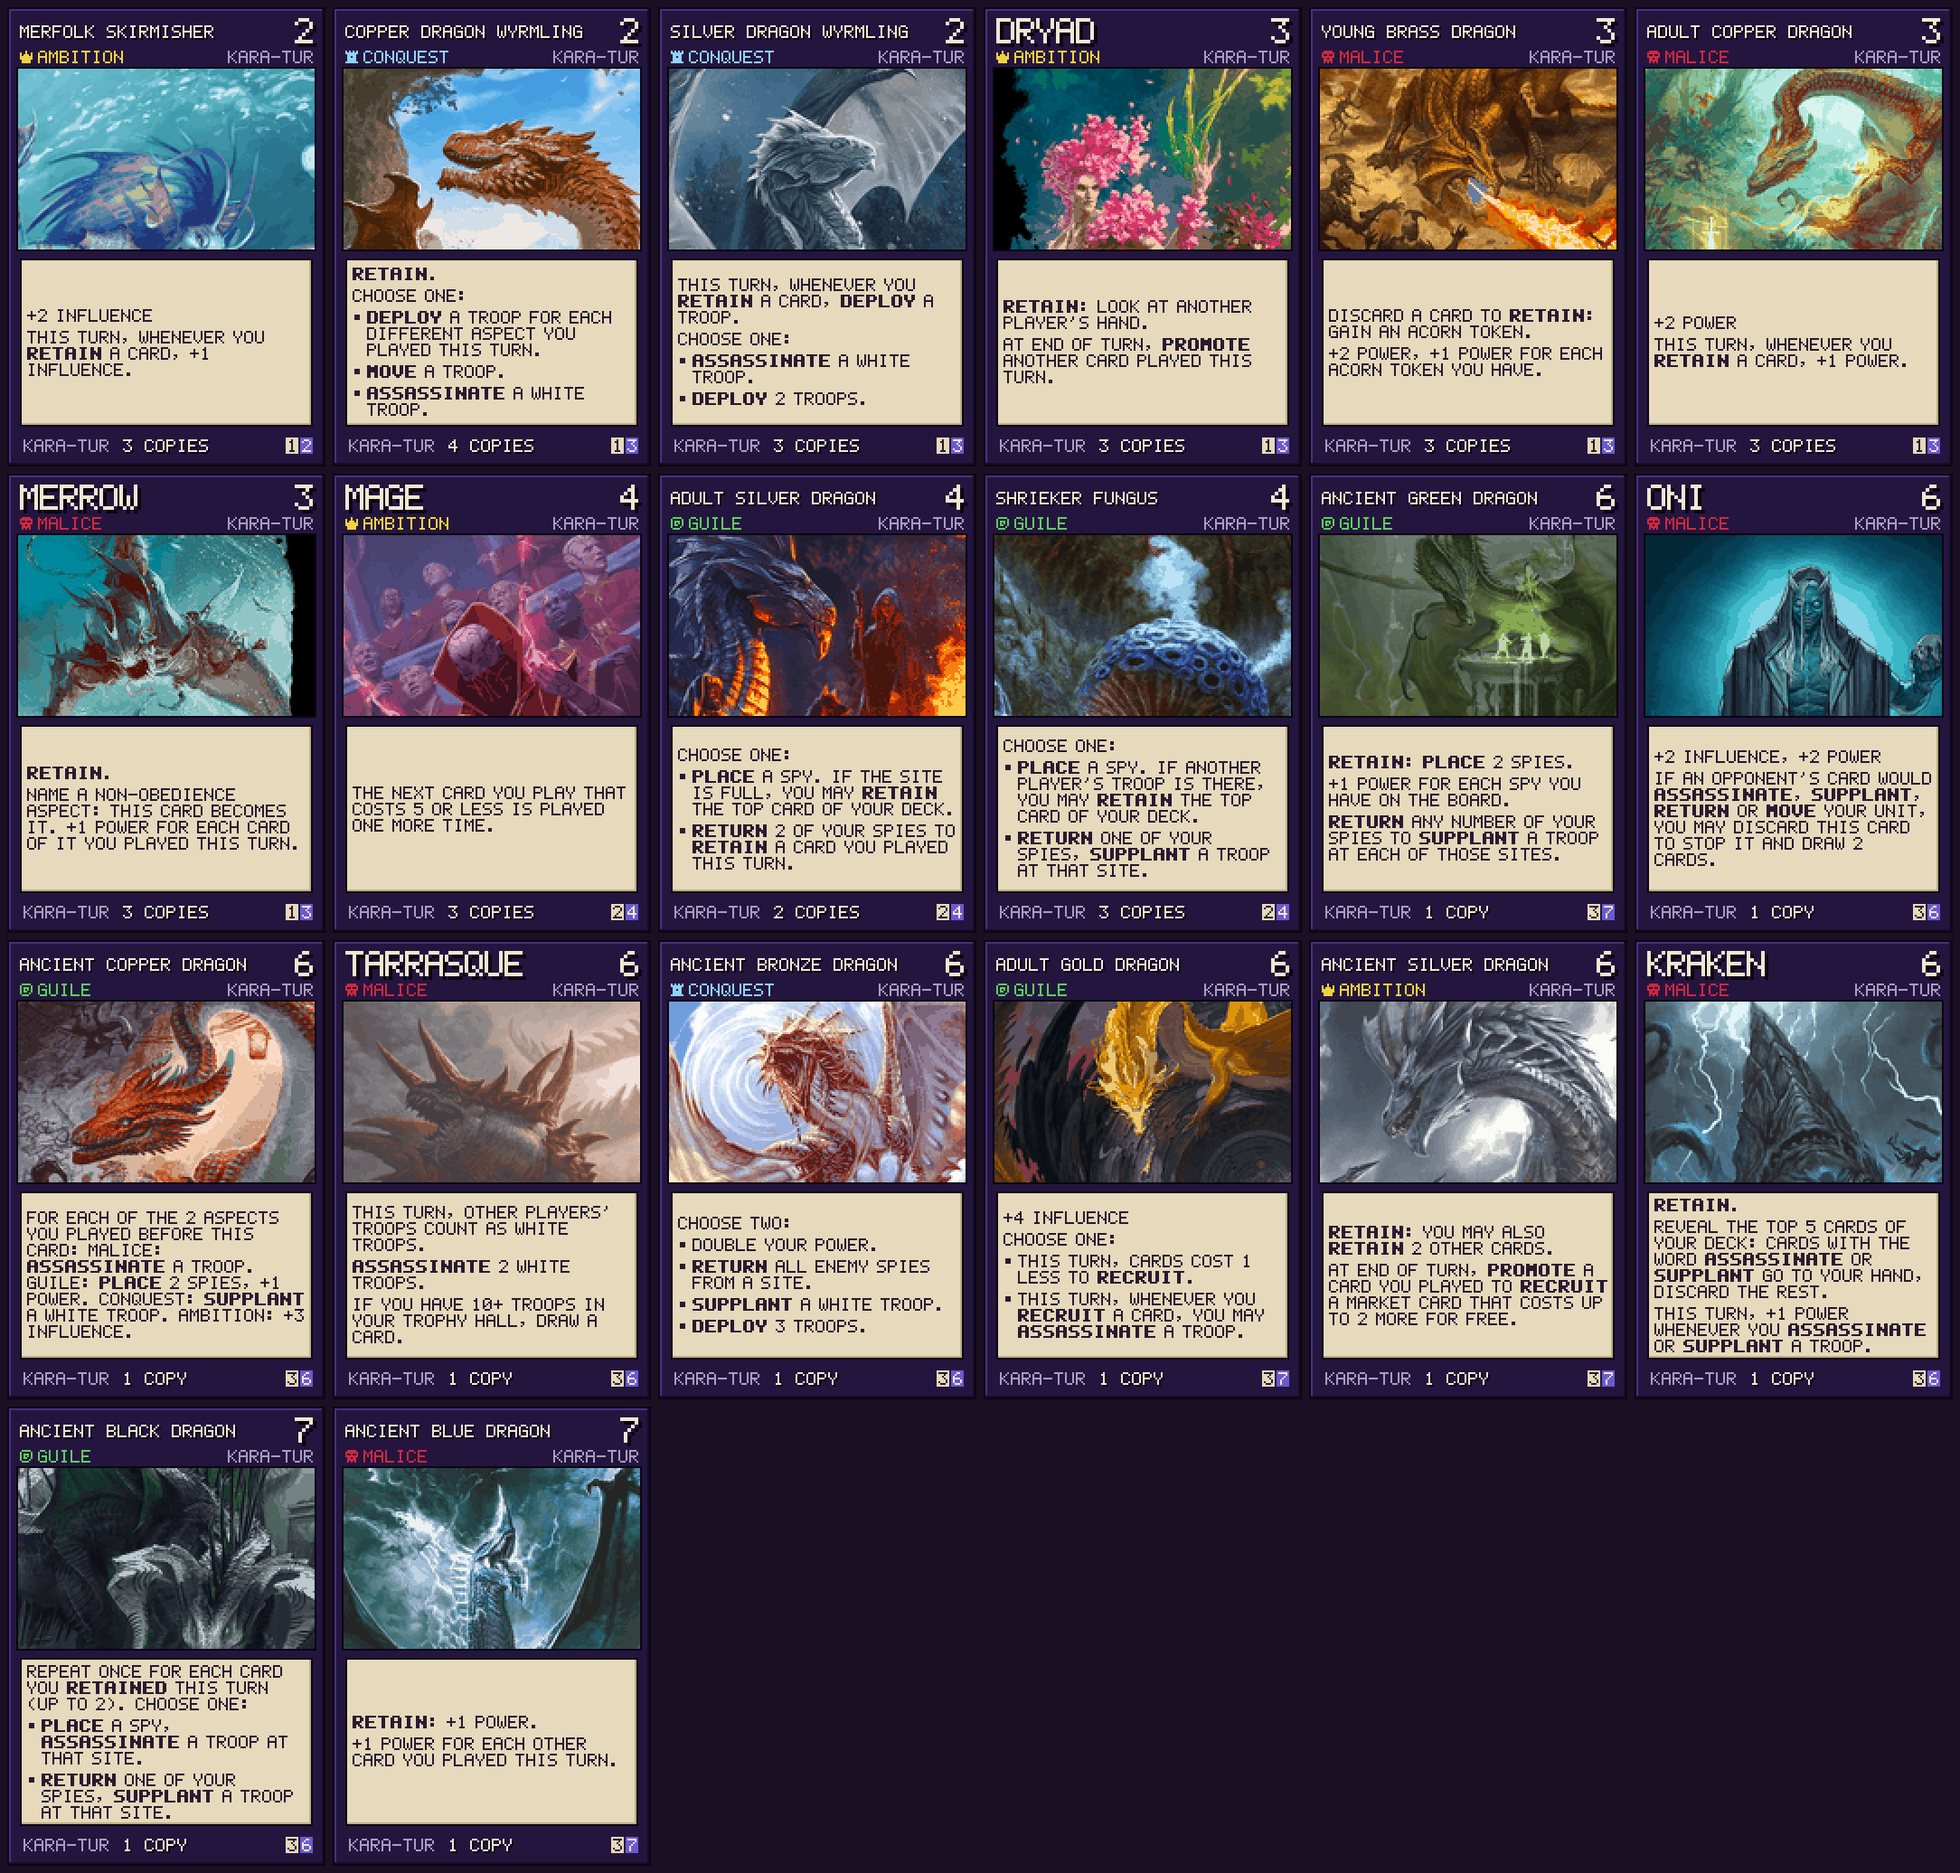
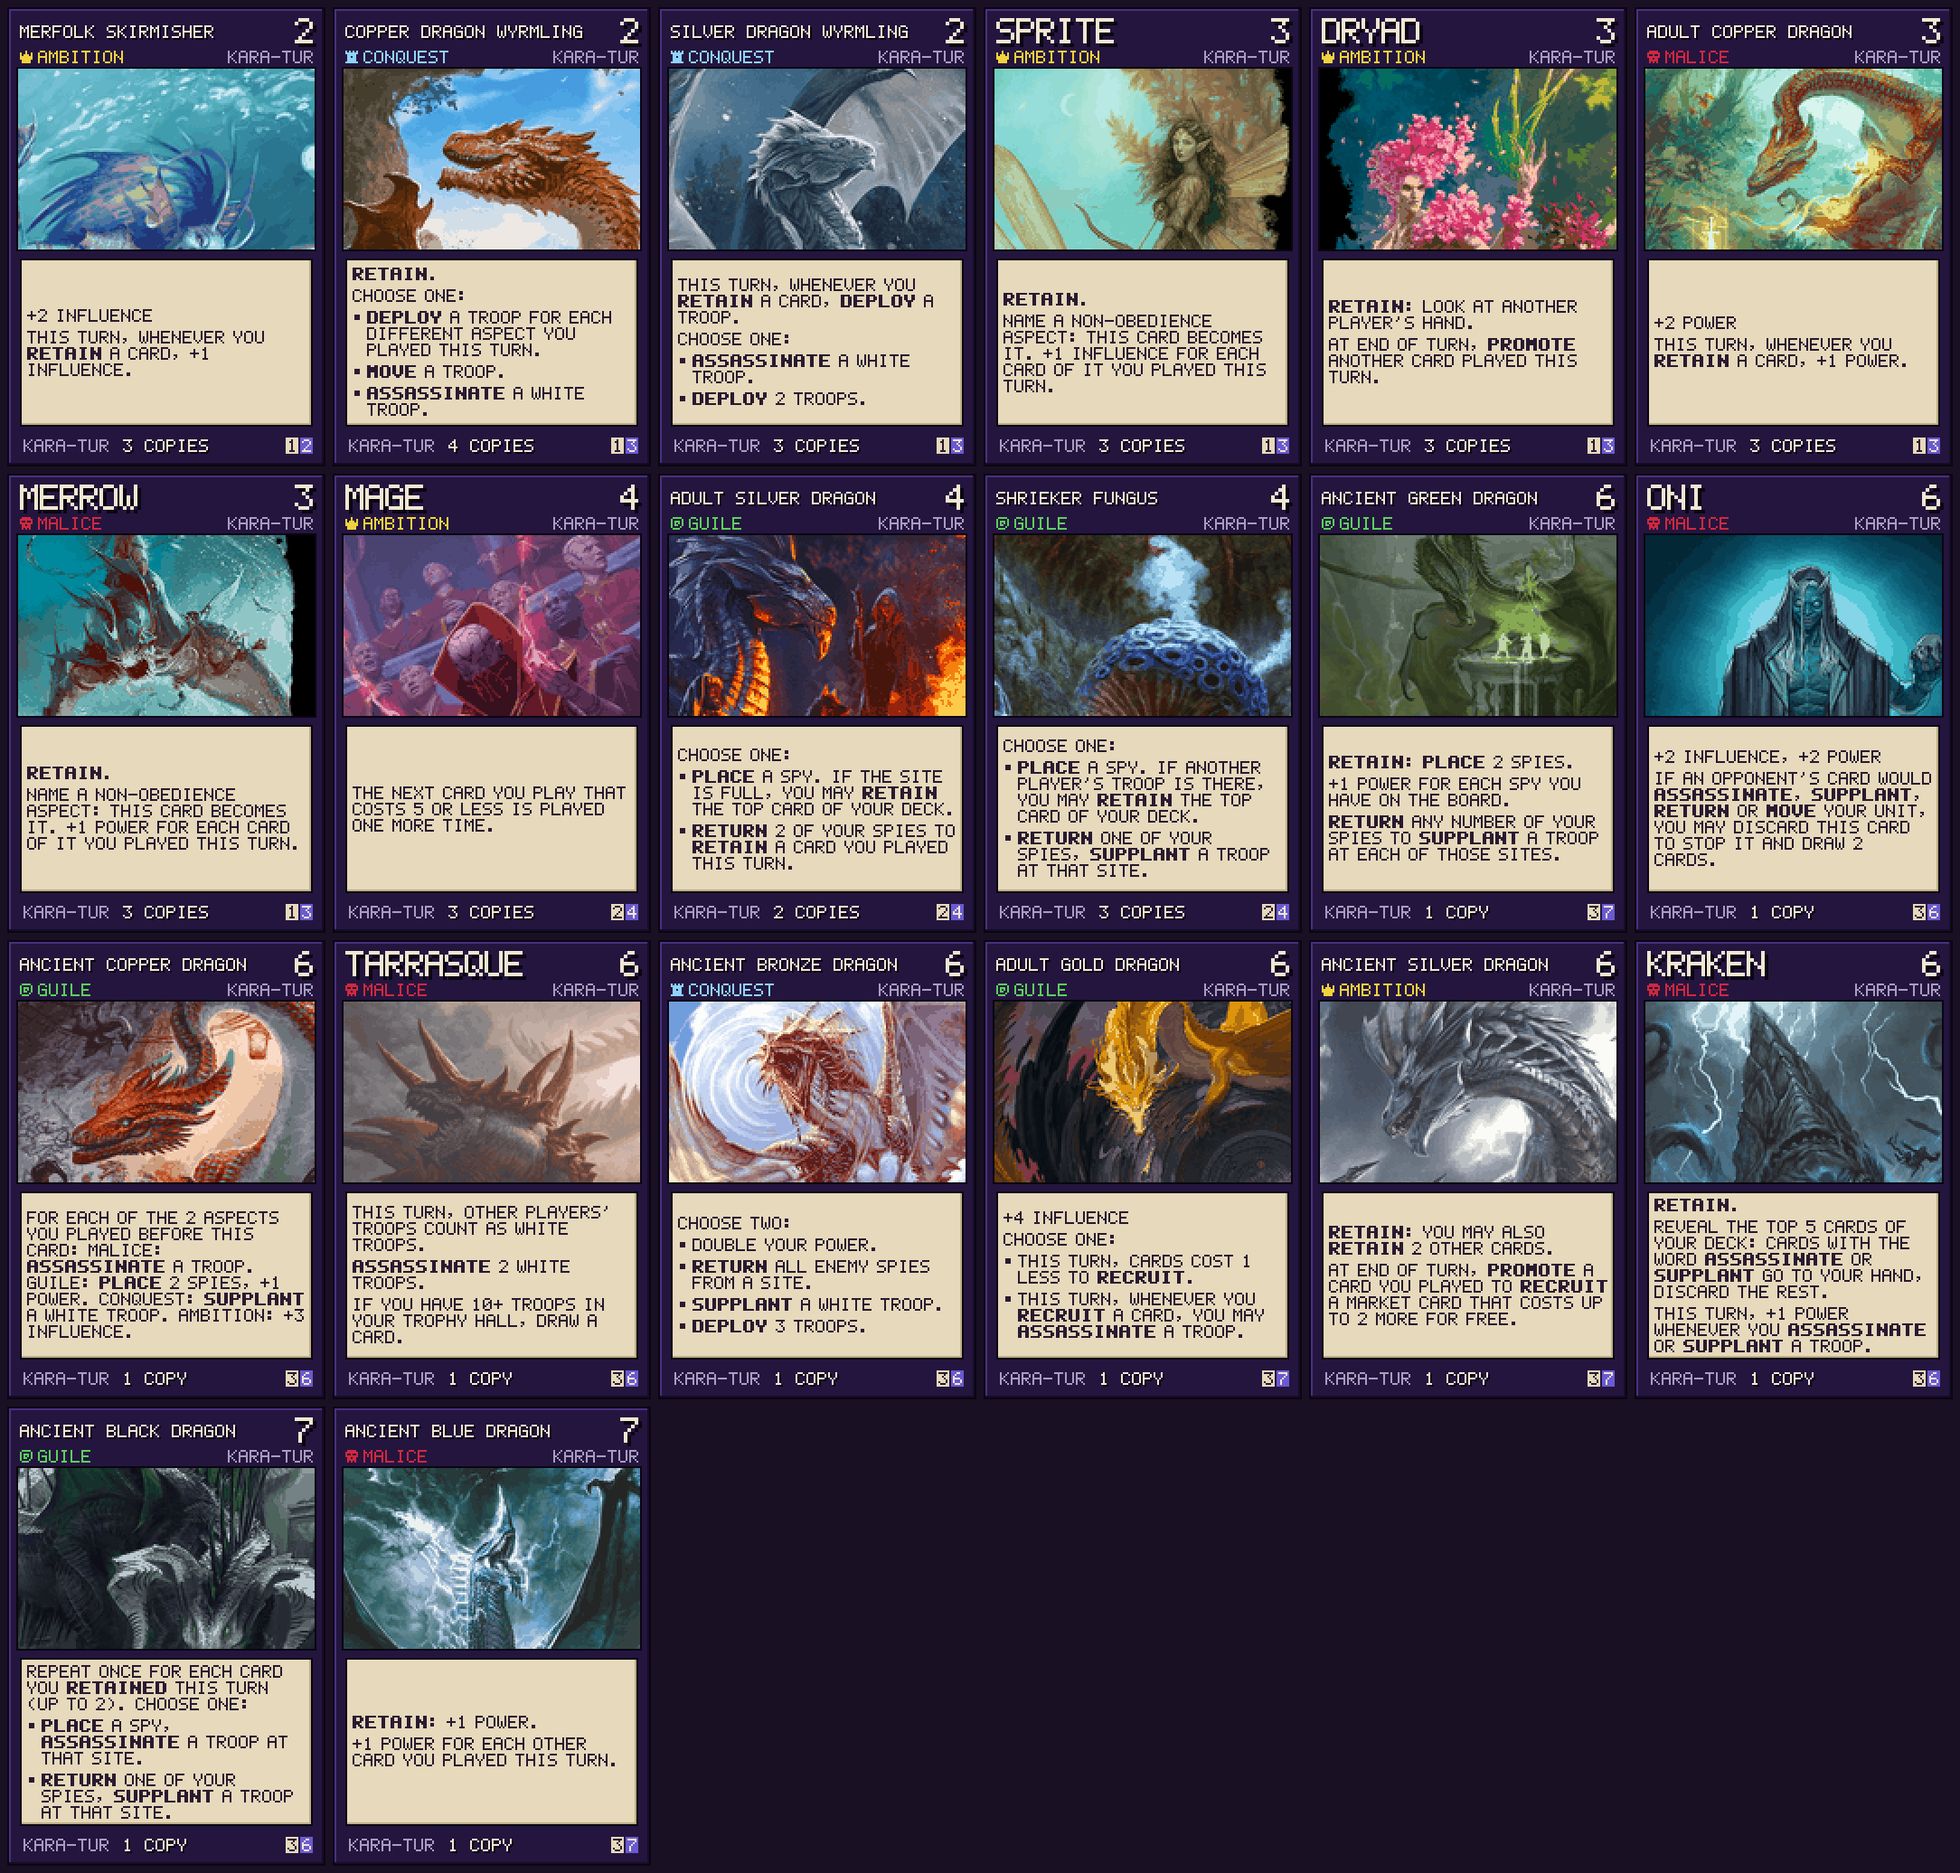
Stage NE-25: Kara-Tur - Young Brass Dragon out, Sprite back with 3 copies (owner), still 40/20. PROTOCOL 33

Changed region(s): [[0.4945, 0.0, 0.8344, 0.2162]]

diff --git a/Claude outputs/new_era_ionia.md b/Claude outputs/new_era_ionia.md
@@ -16,7 +16,7 @@
 | 49801 | Oni | Shen | 6 | Malice (Valor) | 3/6 | 1 |
 | 49802 | Adult Bronze Dragon | Kinkou Wayfinder | 3 | Conquest | 2/4 | 0 (убран, NE-24) |
 | 49803 | Ancient Black Dragon | Zed | 7 | Guile | 3/6 | 1 |
-| 49804 | Sprite | Airis | 3 | Ambition | 1/3 | 0 (убран, NE-24) |
+| 49804 | Sprite | Airis | 3 | Ambition | 1/3 | 3 (вернул владелец, NE-25) |
 | 49805 | Dryad | Blossoming Blade | 3 | Ambition | 1/3 | 3 |
 | 49806 | Ancient Copper Dragon | **Hwei** (вместо Jhin) | 6 | Guile | 3/6 | 1 |
 | 49807 | Ancient Blue Dragon | Yasuo | 7 | Malice (Valor) | 3/7 | 1 |
@@ -26,7 +26,7 @@
 | 49811 | Tarrasque | Lee Sin | 6 | Malice (Valor) | 3/6 | 1 |
 | 49812 | Copper Dragon Wyrmling | Navori Highwayman | 2 | Conquest | 1/3 | 4 |
 | 49813 | Silver Dragon Wyrmling | Greenglade Duo | 2 | Conquest | 1/3 | 3 |
-| 49814 | Young Brass Dragon | Swole Squirrel | 3 | Malice (Valor) | 1/3 | 3 |
+| 49814 | Young Brass Dragon | Swole Squirrel | 3 | Malice (Valor) | 1/3 | 0 (убран, NE-25) |
 | 49815 | Ancient Bronze Dragon | Irelia | 6 | Conquest | 3/6 | 1 |
 | 49816 | Adult Copper Dragon | Pathless Ancient | 3 | Malice (Valor) | 1/3 | 3 |
 | 49817 | Merrow | Kinkou Lifeblade | 3 | Malice (Valor) | 1/3 | 3 |
@@ -36,7 +36,7 @@
 | 49821 | Ancient Silver Dragon | Karma | 6 | Ambition | 3/7 | 1 |
 | 49822 | Kraken | Master Yi | 6 | Malice (Valor) | 3/6 | 1 |
 
-Итого 30 обычных + 10 чемпионов = 40 (NE-24, 2026-10-17: владелец убрал Adult Bronze Dragon, Sprite, Violet Fungus — в cards.json остались; Mage и Young Brass Dragon по 3).
+Итого 30 обычных + 10 чемпионов = 40. NE-24 (2026-10-17): владелец убрал Adult Bronze Dragon, Sprite, Violet Fungus, Mage и Young Brass Dragon по 3. NE-25: Young Brass Dragon заменён на Sprite (3 копии). Убранные остались в cards.json. PROTOCOL 33.
 
 ## Retain
 Правило мода: карта остаётся в руке после конца хода; новая рука — 5 карт без удержанных, потом удержанные добавляются.

diff --git a/Claude outputs/new_era_handoff.md b/Claude outputs/new_era_handoff.md
@@ -4,6 +4,7 @@
 
 ## NE-23/24 (2026-10-17, позже): Ionia → KARA-TUR, 40/20 — запушено (652ca08) и задеплоено: сборка 1792234224, PROTOCOL 32
 - **NE-24:** владелец урезал до 40/20 — убраны Adult Bronze Dragon, Sprite, Violet Fungus (остались в cards.json), Mage и Young Brass Dragon по 3. Флаг `wip` пока не снят.
+- **NE-25:** владелец заменил Young Brass Dragon на Sprite (3 копии), PROTOCOL 33 — закоммичено, деплой только по слову владельца.
 - Владелец: «jhin меняем на hwei». Колода Ionia целиком (45 карт, 23 уникальные), **Hwei вместо Jhin** (картинка PDF 373). Ключ `ionia`, тип `KARA-TUR`, id 49800–49822, `wip` (кнопка KARA-TUR в NEW ERA). Справка и толкования — `Claude outputs/new_era_ionia.md`, лист всех карт — `Claude outputs/karatur_cards_all.png`.
 - **Retain** в движке: `Deck.retained`; щелчок по карте со словом Retain → вопрос «Play / Retain» (`IoniaCards.play_or_retain`, GameServer PLAY_CARD); бонус «Retain:» сразу; в конце хода после добора до 5 удержанные возвращаются в руку (`TurnEngine.finish_end_of_turn`). `TurnEngine.begin_play` — розыгрыш без запуска эффекта. В виде: `retained` (владельцу), `retained_size`, `acorns`; HandPanel показывает удержанные справа с подписью RETAINED.
 - Хуки: `IoniaCards.on_kill` (все 3 места add_trophy — Kraken), `IoniaCards.on_recruit` (GameServer recruit/supply, RecruitFree — Adult Gold Dragon), `IoniaCards.on_play` (Mage = Witness), `ShieldGuard.ONI` + параметр `from_card` (Oni отвечает только на карты; базовые действия в GameServer передают false), `PlayerState.acorns`.
